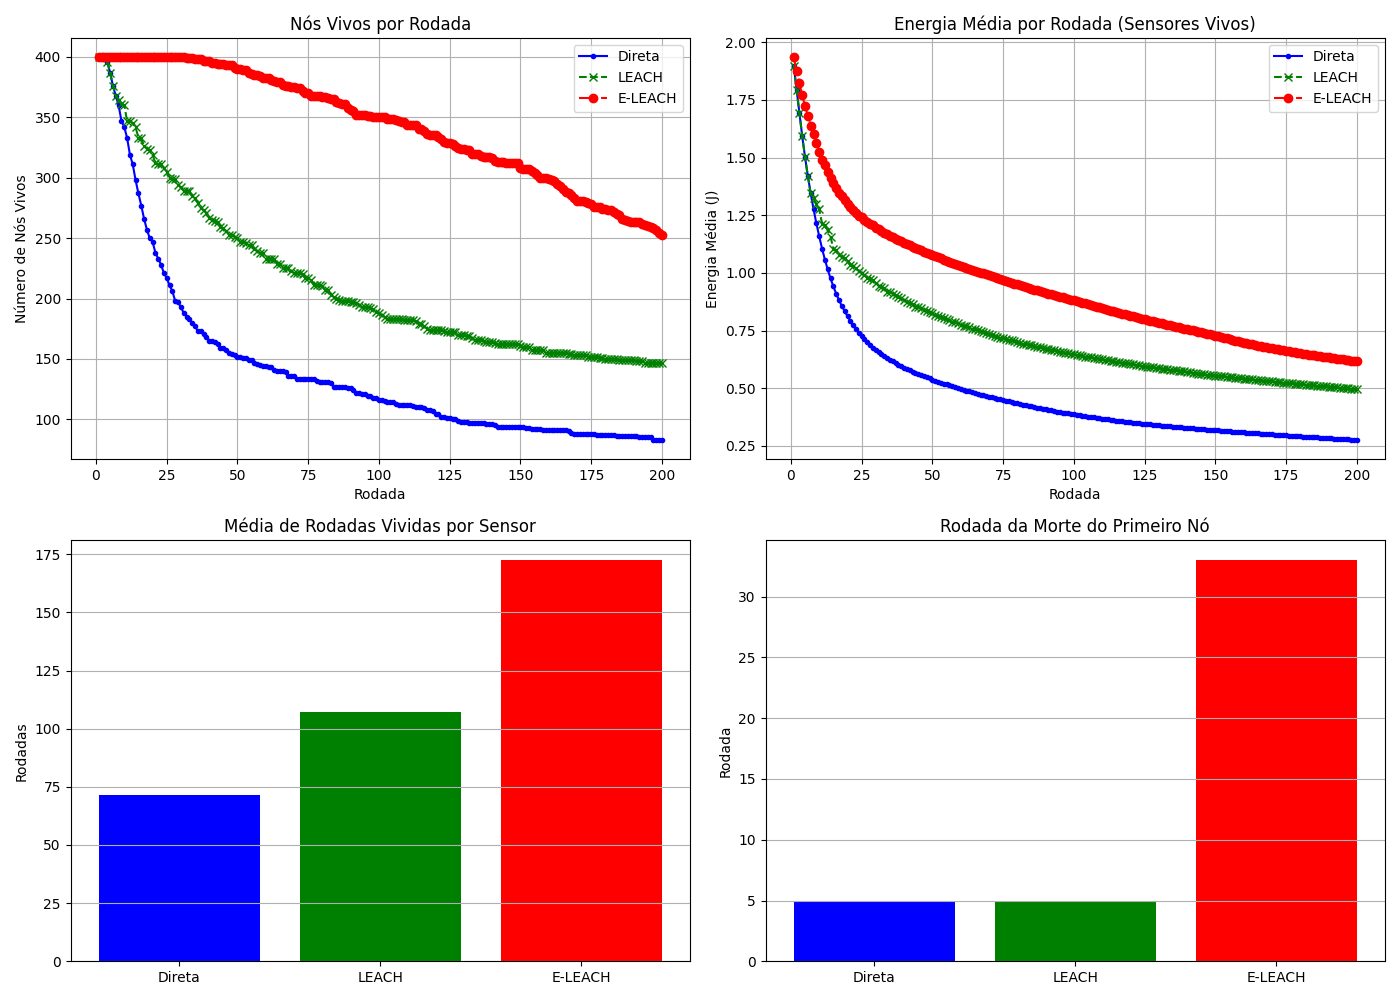
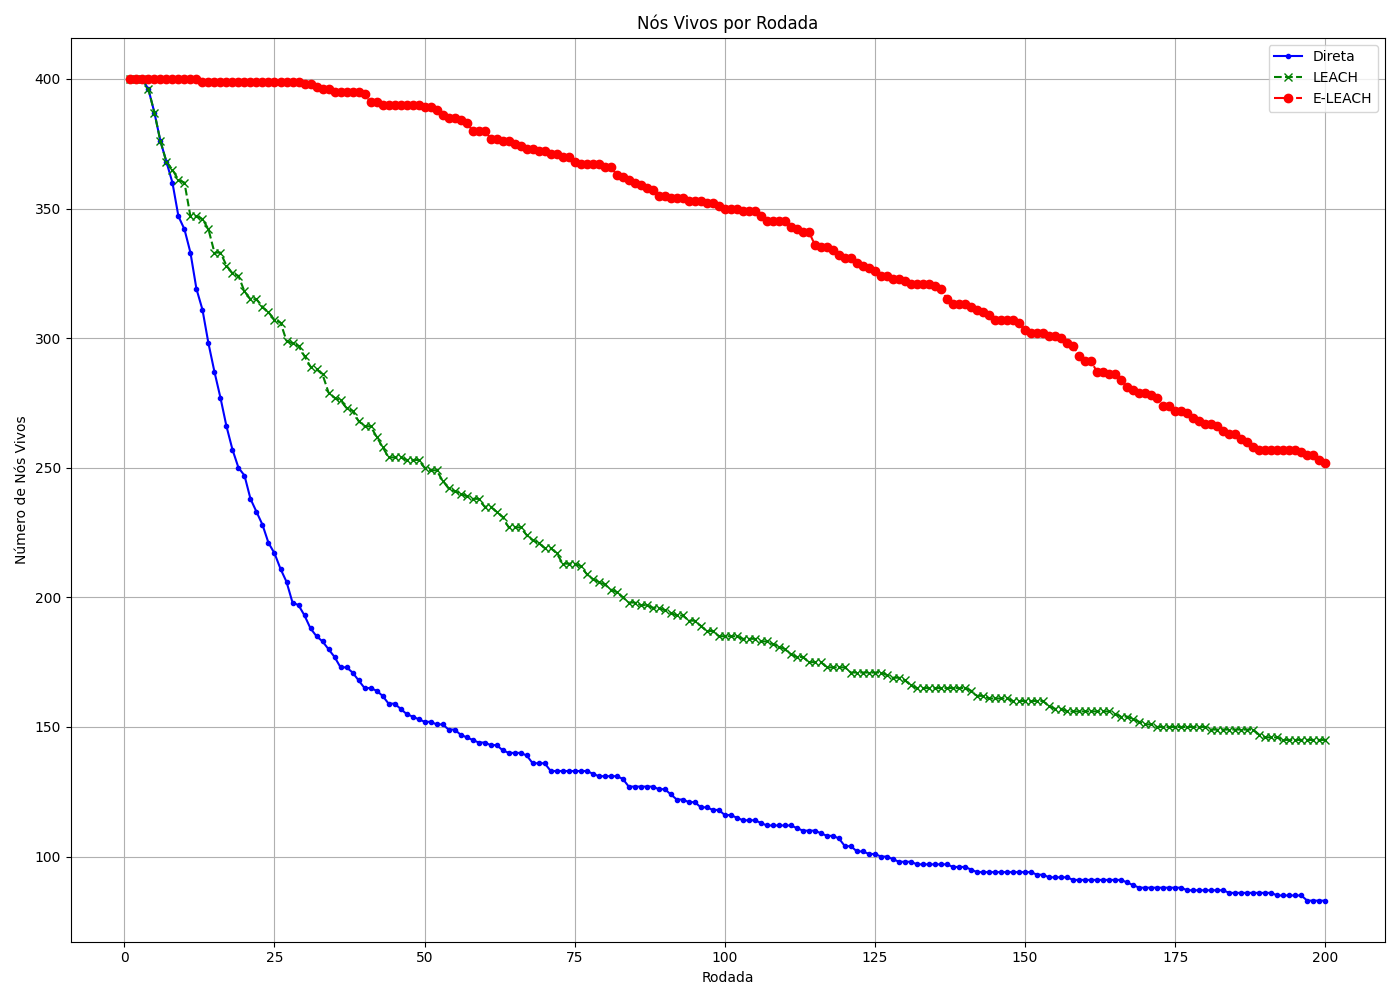
Salva imagens separadas

diff --git a/code/main.py b/code/main.py
@@ -11,40 +11,40 @@ def calcular_vida_util(alive_list):
 
 if __name__ == "__main__":
     ARQUIVO_COORDENADAS = "../dataset/400.txt"
-    NUM_RODADAS = 20000 # altere
+    NUM_RODADAS = 200 # altere
     NUM_SIMULACOES = 3  # Quantidade de simulações
 
-    # # Simulações
-    # _, _, alive_direct, energy_direct, media_vida_direct, first_node_death_round_direct = simulate_direct_communication(
-    #     file_path=ARQUIVO_COORDENADAS,
-    #     num_rounds=NUM_RODADAS
-    # )
+    # Simulações
+    _, _, alive_direct, energy_direct, media_vida_direct, first_node_death_round_direct = simulate_direct_communication(
+        file_path=ARQUIVO_COORDENADAS,
+        num_rounds=NUM_RODADAS
+    )
 
-    # _, _, alive_leach, energy_leach, media_vida_leach, first_node_death_round_leach = simulate_leach(
-    #     file_path=ARQUIVO_COORDENADAS,
-    #     num_rounds=NUM_RODADAS
-    # )
+    _, _, alive_leach, energy_leach, media_vida_leach, first_node_death_round_leach = simulate_leach(
+        file_path=ARQUIVO_COORDENADAS,
+        num_rounds=NUM_RODADAS
+    )
 
-    # _, _, alive_eleach, energy_eleach, media_vida_eleach, first_node_death_round_eleach = simulate_eleach(
-    #     file_path=ARQUIVO_COORDENADAS,
-    #     num_rounds=NUM_RODADAS
-    # )
+    _, _, alive_eleach, energy_eleach, media_vida_eleach, first_node_death_round_eleach = simulate_eleach(
+        file_path=ARQUIVO_COORDENADAS,
+        num_rounds=NUM_RODADAS
+    )
 
-    # # Rodadas (eixo X)
-    # round_axis = range(1, NUM_RODADAS + 1)
+    # Rodadas (eixo X)
+    round_axis = range(1, NUM_RODADAS + 1)
 
-    # # Definindo cores fixas para os protocolos
-    # colors = {
-    #     'Direta': 'blue',
-    #     'LEACH': 'green',
-    #     'E-LEACH': 'red'
-    # }
+    # Definindo cores fixas para os protocolos
+    colors = {
+        'Direta': 'blue',
+        'LEACH': 'green',
+        'E-LEACH': 'red'
+    }
 
-    # # Criação da figura com 2 linhas e 2 colunas
-    # plt.figure(figsize=(14, 10))
+    # Criação da figura com 2 linhas e 2 colunas
+    plt.figure(figsize=(14, 10))
 
-    # # Subplot 1: Nós Vivos
-    # plt.subplot(2, 2, 1)
+    # Subplot 1: Nós Vivos
+    #plt.subplot(2, 2, 1)
     # plt.plot(round_axis, alive_direct, label='Direta', linestyle='-', marker='.', color=colors['Direta'])
     # plt.plot(round_axis, alive_leach, label='LEACH', linestyle='--', marker='x', color=colors['LEACH'])
     # plt.plot(round_axis, alive_eleach, label='E-LEACH', linestyle='-.', marker='o', color=colors['E-LEACH'])
@@ -67,12 +67,12 @@ if __name__ == "__main__":
 
     # # Subplot 3: Média de Vida dos Nós
     # plt.subplot(2, 2, 3)
-    # protocolos = ['Direta', 'LEACH', 'E-LEACH']
-    # medias_vida = [media_vida_direct, media_vida_leach, media_vida_eleach]
-    # plt.bar(protocolos, medias_vida, color=[colors[p] for p in protocolos])
-    # plt.title('Média de Rodadas Vividas por Sensor')
-    # plt.ylabel('Rodadas')
-    # plt.grid(axis='y')
+    protocolos = ['Direta', 'LEACH', 'E-LEACH']
+    medias_vida = [media_vida_direct, media_vida_leach, media_vida_eleach]
+    plt.bar(protocolos, medias_vida, color=[colors[p] for p in protocolos])
+    plt.title('Média de Rodadas Vividas por Sensor')
+    plt.ylabel('Rodadas')
+    plt.grid(axis='y')
 
     # # Subplot 4: Rodada da Morte do Primeiro Nó (FND)
     # plt.subplot(2, 2, 4)
@@ -82,55 +82,55 @@ if __name__ == "__main__":
     # plt.ylabel('Rodada')
     # plt.grid(axis='y')
 
-    # # Ajusta layout e salva
-    # plt.tight_layout()
-    # plt.savefig(f"../results/comparacao_protocolos_2x2_{ARQUIVO_COORDENADAS.replace('.txt', '').replace('../dataset/', '')}.png")
-    # print("\nGráfico salvo como 'comparacao_protocolos_2x2.png'")
-    # print(alive_direct[-1], alive_leach[-1], alive_eleach[-1])
-
-    vidas_direct = []
-    vidas_leach = []
-    vidas_eleach = []
-
-    for i in range(NUM_SIMULACOES):
-        print(f"Simulação {i+1} de {NUM_SIMULACOES}...")
-
-        _, _, alive_direct, _, _, _ = simulate_direct_communication(
-            file_path=ARQUIVO_COORDENADAS,
-            num_rounds=NUM_RODADAS
-        )
-
-        _, _, alive_leach, _, _, _ = simulate_leach(
-            file_path=ARQUIVO_COORDENADAS,
-            num_rounds=NUM_RODADAS
-        )
-
-        _, _, alive_eleach, _, _, _ = simulate_eleach(
-            file_path=ARQUIVO_COORDENADAS,
-            num_rounds=NUM_RODADAS
-        )
-
-        vidas_direct.append(calcular_vida_util(alive_direct))
-        vidas_leach.append(calcular_vida_util(alive_leach))
-        vidas_eleach.append(calcular_vida_util(alive_eleach))
-
-    # Configuração do gráfico de barras agrupadas
-    indices = np.arange(NUM_SIMULACOES)
-    largura_barra = 0.25
-
-    plt.figure(figsize=(10, 6))
-
-    # Ordem: Direta (esquerda, azul), LEACH (meio, verde), E-LEACH (direita, vermelho)
-    plt.bar(indices - largura_barra, vidas_direct, width=largura_barra, label='Direta', color='blue')
-    plt.bar(indices, vidas_leach, width=largura_barra, label='LEACH', color='green')
-    plt.bar(indices + largura_barra, vidas_eleach, width=largura_barra, label='E-LEACH', color='red')
-
-    plt.xlabel(f"Índice da simulação - {ARQUIVO_COORDENADAS.replace('.txt', '').replace('../dataset/', '')} Sensores")
-    plt.ylabel('Vida Útil da Rede (Round)')
-    plt.title('Comparação da Vida Útil da Rede')
-    plt.xticks(indices, [str(i + 1) for i in indices])
-    plt.legend()
-    plt.grid(axis='y', linestyle='--', alpha=0.7)
+    # Ajusta layout e salva
     plt.tight_layout()
-    plt.savefig(f"../results/vida_util_barras_simulacoes_{ARQUIVO_COORDENADAS.replace('.txt', '').replace('../dataset/', '')}.png")
-    plt.show()
+    plt.savefig(f"../results/comparacao_protocolos_2x2_MEDIA_VIVA_{ARQUIVO_COORDENADAS.replace('.txt', '').replace('../dataset/', '')}.png")
+    print("\nGráfico salvo como 'comparacao_protocolos_2x2.png'")
+    print(alive_direct[-1], alive_leach[-1], alive_eleach[-1])
+
+    # vidas_direct = []
+    # vidas_leach = []
+    # vidas_eleach = []
+
+    # for i in range(NUM_SIMULACOES):
+    #     print(f"Simulação {i+1} de {NUM_SIMULACOES}...")
+
+    #     _, _, alive_direct, _, _, _ = simulate_direct_communication(
+    #         file_path=ARQUIVO_COORDENADAS,
+    #         num_rounds=NUM_RODADAS
+    #     )
+
+    #     _, _, alive_leach, _, _, _ = simulate_leach(
+    #         file_path=ARQUIVO_COORDENADAS,
+    #         num_rounds=NUM_RODADAS
+    #     )
+
+    #     _, _, alive_eleach, _, _, _ = simulate_eleach(
+    #         file_path=ARQUIVO_COORDENADAS,
+    #         num_rounds=NUM_RODADAS
+    #     )
+
+    #     vidas_direct.append(calcular_vida_util(alive_direct))
+    #     vidas_leach.append(calcular_vida_util(alive_leach))
+    #     vidas_eleach.append(calcular_vida_util(alive_eleach))
+
+    # # Configuração do gráfico de barras agrupadas
+    # indices = np.arange(NUM_SIMULACOES)
+    # largura_barra = 0.25
+
+    # plt.figure(figsize=(10, 6))
+
+    # # Ordem: Direta (esquerda, azul), LEACH (meio, verde), E-LEACH (direita, vermelho)
+    # plt.bar(indices - largura_barra, vidas_direct, width=largura_barra, label='Direta', color='blue')
+    # plt.bar(indices, vidas_leach, width=largura_barra, label='LEACH', color='green')
+    # plt.bar(indices + largura_barra, vidas_eleach, width=largura_barra, label='E-LEACH', color='red')
+
+    # plt.xlabel(f"Índice da simulação - {ARQUIVO_COORDENADAS.replace('.txt', '').replace('../dataset/', '')} Sensores")
+    # plt.ylabel('Vida Útil da Rede (Round)')
+    # plt.title('Comparação da Vida Útil da Rede')
+    # plt.xticks(indices, [str(i + 1) for i in indices])
+    # plt.legend()
+    # plt.grid(axis='y', linestyle='--', alpha=0.7)
+    # plt.tight_layout()
+    # plt.savefig(f"../results/vida_util_barras_simulacoes_{ARQUIVO_COORDENADAS.replace('.txt', '').replace('../dataset/', '')}.png")
+    # plt.show()

diff --git a/code/ELEACH.py b/code/ELEACH.py
@@ -16,7 +16,7 @@ INITIAL_ENERGY = 2.0 # Joules (Energia inicial dos nós)
 P = 0.3             # Probabilidade de um nó se tornar CH (fixa)
 E_SENSE = 8e-5    #Joules por segundo (energia do sensoriamento)
 E_SLEEP = 15e-10  #Joules por intervalor de sleep
-NETWORK_FUNCTIONAL_THRESHOLD = 0.2 # 20% dos nós devem estar vivos para considerar a rede funcional sem problemas (comparação justa)
+NETWORK_FUNCTIONAL_THRESHOLD = 0 # 20% dos nós devem estar vivos para considerar a rede funcional sem problemas (comparação justa)
 
 # A rede é modelada em forma de um grafo ponderado. A classe SensorNode é considerada o vértice do grafo
 # e a aresta é calculada dinâmicamente baseado na distância entre ERB, CH ou Sensor comum.

diff --git a/code/LEACH.py b/code/LEACH.py
@@ -16,7 +16,7 @@ INITIAL_ENERGY = 2.0 # Joules (Energia inicial dos nós)
 P = 0.3             # Probabilidade de um nó se tornar CH (fixa)
 E_SENSE = 8e-5    #Joules por segundo (energia do sensoriamento)
 E_SLEEP = 15e-10  #Joules por intervalor de sleep
-NETWORK_FUNCTIONAL_THRESHOLD = 0.2 # 20% dos nós devem estar vivos para considerar a rede funcional sem problemas (comparação justa)
+NETWORK_FUNCTIONAL_THRESHOLD = 0 # 20% dos nós devem estar vivos para considerar a rede funcional sem problemas (comparação justa)
 
 # A rede é modelada em forma de um grafo ponderado. A classe SensorNode é considerada o vértice do grafo
 # e a aresta é calculada dinâmicamente baseado na distância entre ERB, CH ou Sensor comum.

diff --git a/code/direto.py b/code/direto.py
@@ -18,7 +18,7 @@ PACKET_SIZE = 2000  # bits (Tamanho do pacote)
 INITIAL_ENERGY = 2.0 # Joules (Energia inicial dos nós)
 E_SENSE = 8e-5
 E_SLEEP = 15e-10
-NETWORK_FUNCTIONAL_THRESHOLD = 0.2 # 20% dos nós devem estar vivos para considerar a rede funcional sem problemas (comparação justa)
+NETWORK_FUNCTIONAL_THRESHOLD = 0 # 20% dos nós devem estar vivos para considerar a rede funcional sem problemas (comparação justa)
 
 class SensorNode:
     def __init__(self, node_id, x, y, base_station):
